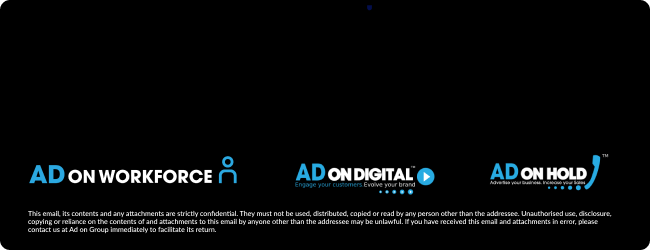
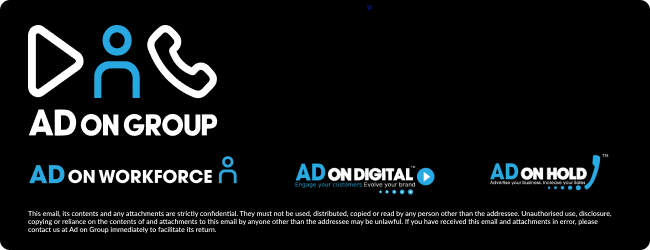
feat: changed the background

Changed region(s): [[0.0308, 0.084, 0.3385, 0.392], [0.0308, 0.42, 0.3385, 0.56]]

diff --git a/utils/signatureGenerator.ts b/utils/signatureGenerator.ts
@@ -15,8 +15,7 @@ export const generateOutlookSignature = (
     color: #fff;
     border-radius: 15px;
     padding: 20px;
-    max-width: 650px;
-    width: 100%;
+    width: 650px;
     background-image: url('https://raw.githubusercontent.com/noucodes/adon-email/refs/heads/main/public/adon-bg.png');
     background-repeat: no-repeat;
     background-position: center;
@@ -28,11 +27,7 @@ export const generateOutlookSignature = (
       class="aog-logo"
       style="width: 35%; padding: 10px 10px 10px 20px; vertical-align: top;"
     >
-      <img
-        src="https://adongroup.com.au/wp-content/uploads/2024/12/AdonGroup.png"
-        style="max-width: 100%; height: auto; display: block;"
-        alt="Adon Group Logo"
-      />
+      
     </td>
 
     <td style="width: 65%; padding: 10px 10px 10px 0; vertical-align: top;">
@@ -103,7 +98,7 @@ export const generateOutlookSignature = (
       </div>
     </td>
   </tr>
-  <tr style="margin: 0; padding: 0; height: 80px">
+  <tr style="margin: 0; padding: 0; height: 100px">
       <td></td>
     </tr>
 </table>`,
@@ -111,106 +106,110 @@ export const generateOutlookSignature = (
     design2: `
 <table
   class="sig-cont"
+  cellpadding="0"
+  cellspacing="0"
   style="
     background-color: #000;
     color: #fff;
     border-radius: 15px;
     padding: 20px;
-    width: 650px;
+    max-width: 650px;
+    width: 100%;
     background-image: url('https://raw.githubusercontent.com/noucodes/adon-email/refs/heads/main/public/adon-bg.png');
     background-repeat: no-repeat;
     background-position: center;
     font-family: Arial, sans-serif;
   "
 >
-  <tbody style="margin: 20px;">
-    <tr style="margin: 0; padding: 0; height: 140px">
-      <td class="aog-logo" style="width: 35%; padding: 10px 0 0 20px;">
-        <img
-          src="https://adongroup.com.au/wp-content/uploads/2024/12/AdonGroup.png"
-          style="width: 90%"
-        />
-      </td>
+  <tr style="vertical-align: top;">
+    <td
+      class="aog-logo"
+      style="width: 35%; padding: 10px 10px 10px 20px; vertical-align: top;"
+    >
+      <img
+        src="https://adongroup.com.au/wp-content/uploads/2024/12/AdonGroup.png"
+        style="max-width: 100%; height: auto; display: block;"
+        alt="Adon Group Logo"
+      />
+    </td>
 
-      <td style="width: 40%; padding: 10px 0 0 0;">
-        <div class="name-position-cont" style="font-size: 21px; line-height: .5">
-          <strong style="line-height: 1.5">${data.name}</strong><br />
-          <strong style="font-size: 12px;"
-            >${data.title}</strong
-          ><br /><br /><br />
-        </div>
-        <div class="links-cont" style="line-height: .6">
+    <td style="width: 45%; padding: 10px 10px 10px 0; vertical-align: top;">
+      <div
+        class="name-position-cont"
+        style="font-size: 21px; margin-bottom: 10px;"
+      >
+        <p style="line-height: 1.4; font-weight: 700; margin: 0;">
+          ${data.name}
+        </p>
+        <p style="font-size: 12px; margin: 0;">${data.title}</p>
+      </div>
+
+      <div class="links-cont" style="line-height: 1.2;">
         ${
           data.phone
-            ? `<a
-            href="tel:${data.phone}"
-            style="font-size: 12px; color: #fff; text-decoration: none; display: inline-block; vertical-align: middle;"
-          >
+            ? `<div style="">
             <img
               src="https://adongroup.com.au/wp-content/uploads/2024/12/phone-call.png"
-              style="
-                width: 14px;
-                height: 14px;
-                margin-right: 10px;
-                object-fit: contain;
-              "
+              style="width: 14px; height: 14px; margin-right: 8px; display: inline-block; vertical-align: middle;"
+              alt="Phone"
             />
-            ${data.phone} </a
-          ><br />`
+            <a
+              href="tel:${data.phone}"
+              style="font-size: 12px; color: #fff; text-decoration: none; display: inline-block; vertical-align: middle;"
+            >
+              ${data.phone}
+            </a>
+          </div>`
             : ""
         }
 
         ${
           data.website1
-            ? `<a
-            href="https://adongroup.com.au/"
-            style="font-size: 12px; color: #fff; text-decoration: none; display: inline-block; vertical-align: middle;"
-          >
+            ? `<div style="">
             <img
               src="https://adongroup.com.au/wp-content/uploads/2024/12/globe.png"
-              style="
-                width: 14px;
-                height: 14px;
-                margin-right: 10px;
-                object-fit: contain;
-              "
+              style="width: 14px; height: 14px; margin-right: 8px; display: inline-block; vertical-align: middle;"
+              alt="Website"
             />
-            ${data.website1} </a
-          ><br />`
+            <a
+              href="https://adongroup.com.au/"
+              style="font-size: 12px; color: #fff; text-decoration: none; display: inline-block; vertical-align: middle;"
+            >
+              ${data.website1}
+            </a>
+          </div>`
             : ""
         }
-          ${
-            data.website2
-              ? `<a
-            href="https://adonworkforce.com.au/"
-            style="font-size: 12px; color: #fff; text-decoration: none; display: inline-block; vertical-align: middle;"
-          >
+
+        ${
+          data.website2
+            ? `<div style="">
             <img
               src="https://adongroup.com.au/wp-content/uploads/2024/12/globe.png"
-              style="
-                width: 14px;
-                height: 14px;
-                margin-right: 10px;
-                object-fit: contain;
-              "
+              style="width: 14px; height: 14px; margin-right: 8px; display: inline-block; vertical-align: middle;"
+              alt="Website"
             />
-            ${data.website2}
-          </a>`
-              : ""
-          }
-        </div>
-      </td>
-      <td class="adon-qr" style="width: 25%; padding: 10px 0 0 0;">
+            <a
+              href="https://adonworkforce.com.au/"
+              style="font-size: 12px; color: #fff; text-decoration: none; display: inline-block; vertical-align: middle;"
+            >
+              ${data.website2}
+            </a>
+          </div>`
+            : ""
+        }
+      </div>
+    </td>
+    <td class="adon-qr" style="width: 25%; padding: 10px 0 0 0;">
       <img
           src="https://raw.githubusercontent.com/noucodes/adon-email/refs/heads/main/public/adon-qr.png"
           style="width: 75%"
         />
       </td>
-    </tr>
-    <tr style="margin: 0; padding: 0; height: 100px">
+  </tr>
+  <tr style="margin: 0; padding: 0; height: 80px">
       <td></td>
     </tr>
-  </tbody>
 </table>`,
   };
 
@@ -329,106 +328,110 @@ export const generateMondaySignature = (
     design2: `
 <table
   class="sig-cont"
+  cellpadding="0"
+  cellspacing="0"
   style="
     background-color: #000;
     color: #fff;
     border-radius: 15px;
     padding: 20px;
-    width: 650px;
+    max-width: 650px;
+    width: 100%;
     background-image: url('https://raw.githubusercontent.com/noucodes/adon-email/refs/heads/main/public/adon-bg.png');
     background-repeat: no-repeat;
     background-position: center;
     font-family: Arial, sans-serif;
   "
 >
-  <tbody style="margin: 20px;">
-    <tr style="margin: 0; padding: 0; height: 140px">
-      <td class="aog-logo" style="width: 35%; padding: 10px 0 0 20px;">
-        <img
-          src="https://adongroup.com.au/wp-content/uploads/2024/12/AdonGroup.png"
-          style="width: 90%"
-        />
-      </td>
+  <tr style="vertical-align: top;">
+    <td
+      class="aog-logo"
+      style="width: 35%; padding: 10px 10px 10px 20px; vertical-align: top;"
+    >
+      <img
+        src="https://adongroup.com.au/wp-content/uploads/2024/12/AdonGroup.png"
+        style="max-width: 100%; height: auto; display: block;"
+        alt="Adon Group Logo"
+      />
+    </td>
 
-      <td style="width: 40%; padding: 10px 0 0 0;">
-        <div class="name-position-cont" style="font-size: 21px; line-height: .5">
-          <strong style="line-height: 1.5">${data.name}</strong><br />
-          <strong style="font-size: 12px;"
-            >${data.title}</strong
-          ><br /><br /><br />
-        </div>
-        <div class="links-cont" style="line-height: .6">
+    <td style="width: 45%; padding: 10px 10px 10px 0; vertical-align: top;">
+      <div
+        class="name-position-cont"
+        style="font-size: 21px; margin-bottom: 10px;"
+      >
+        <p style="line-height: 1.4; font-weight: 700; margin: 0;">
+          ${data.name}
+        </p>
+        <p style="font-size: 12px; margin: 0;">${data.title}</p>
+      </div>
+
+      <div class="links-cont" style="line-height: 1.2;">
         ${
           data.phone
-            ? `<a
-            href="tel:${data.phone}"
-            style="font-size: 12px; color: #fff; text-decoration: none; display: inline-block; vertical-align: middle;"
-          >
+            ? `<div style="">
             <img
               src="https://adongroup.com.au/wp-content/uploads/2024/12/phone-call.png"
-              style="
-                width: 14px;
-                height: 14px;
-                margin-right: 10px;
-                object-fit: contain;
-              "
+              style="width: 14px; height: 14px; margin-right: 8px; display: inline-block; vertical-align: middle;"
+              alt="Phone"
             />
-            ${data.phone} </a
-          ><br />`
+            <a
+              href="tel:${data.phone}"
+              style="font-size: 12px; color: #fff; text-decoration: none; display: inline-block; vertical-align: middle;"
+            >
+              ${data.phone}
+            </a>
+          </div>`
             : ""
         }
 
         ${
           data.website1
-            ? `<a
-            href="https://adongroup.com.au/"
-            style="font-size: 12px; color: #fff; text-decoration: none; display: inline-block; vertical-align: middle;"
-          >
+            ? `<div style="">
             <img
               src="https://adongroup.com.au/wp-content/uploads/2024/12/globe.png"
-              style="
-                width: 14px;
-                height: 14px;
-                margin-right: 10px;
-                object-fit: contain;
-              "
+              style="width: 14px; height: 14px; margin-right: 8px; display: inline-block; vertical-align: middle;"
+              alt="Website"
             />
-            ${data.website1} </a
-          ><br />`
+            <a
+              href="https://adongroup.com.au/"
+              style="font-size: 12px; color: #fff; text-decoration: none; display: inline-block; vertical-align: middle;"
+            >
+              ${data.website1}
+            </a>
+          </div>`
             : ""
         }
-          ${
-            data.website2
-              ? `<a
-            href="https://adonworkforce.com.au/"
-            style="font-size: 12px; color: #fff; text-decoration: none; display: inline-block; vertical-align: middle;"
-          >
+
+        ${
+          data.website2
+            ? `<div style="">
             <img
               src="https://adongroup.com.au/wp-content/uploads/2024/12/globe.png"
-              style="
-                width: 14px;
-                height: 14px;
-                margin-right: 10px;
-                object-fit: contain;
-              "
+              style="width: 14px; height: 14px; margin-right: 8px; display: inline-block; vertical-align: middle;"
+              alt="Website"
             />
-            ${data.website2}
-          </a>`
-              : ""
-          }
-        </div>
-      </td>
-      <td class="adon-qr" style="width: 25%; padding: 10px 0 0 0;">
+            <a
+              href="https://adonworkforce.com.au/"
+              style="font-size: 12px; color: #fff; text-decoration: none; display: inline-block; vertical-align: middle;"
+            >
+              ${data.website2}
+            </a>
+          </div>`
+            : ""
+        }
+      </div>
+    </td>
+    <td class="adon-qr" style="width: 25%; padding: 10px 0 0 0;">
       <img
           src="https://raw.githubusercontent.com/noucodes/adon-email/refs/heads/main/public/adon-qr.png"
           style="width: 75%"
         />
       </td>
-    </tr>
-    <tr style="margin: 0; padding: 0; height: 100px">
+  </tr>
+  <tr style="margin: 0; padding: 0; height: 80px">
       <td></td>
     </tr>
-  </tbody>
 </table>`,
   };
 
